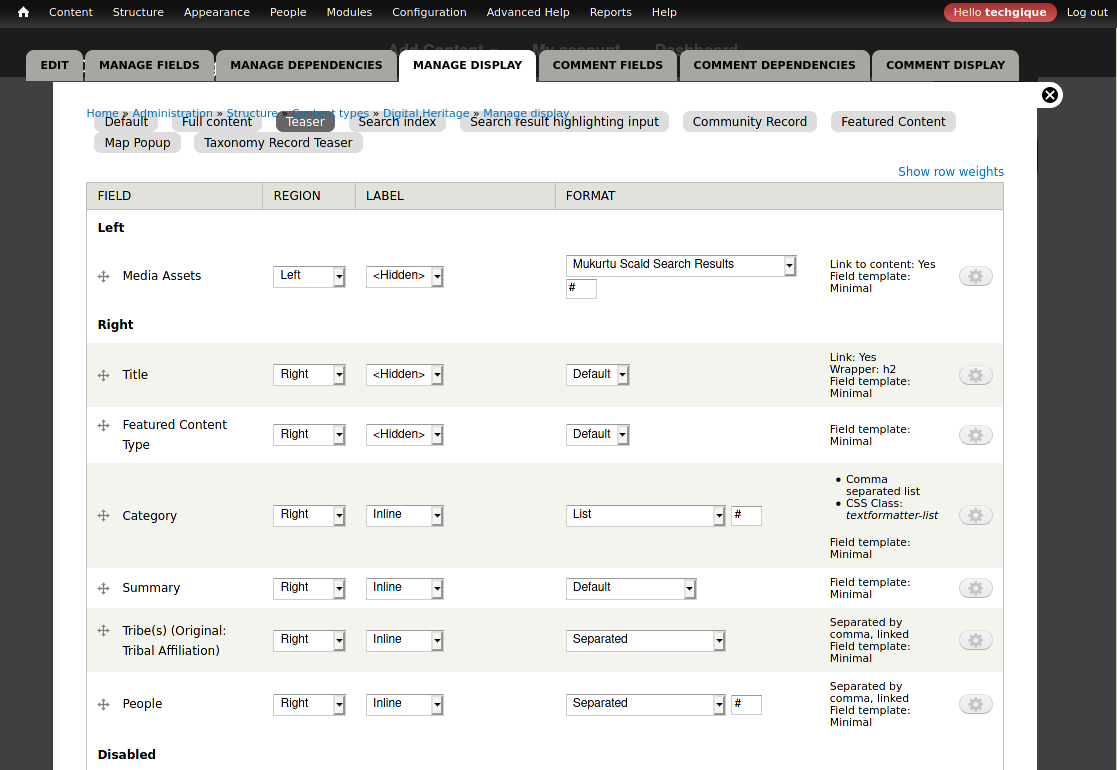
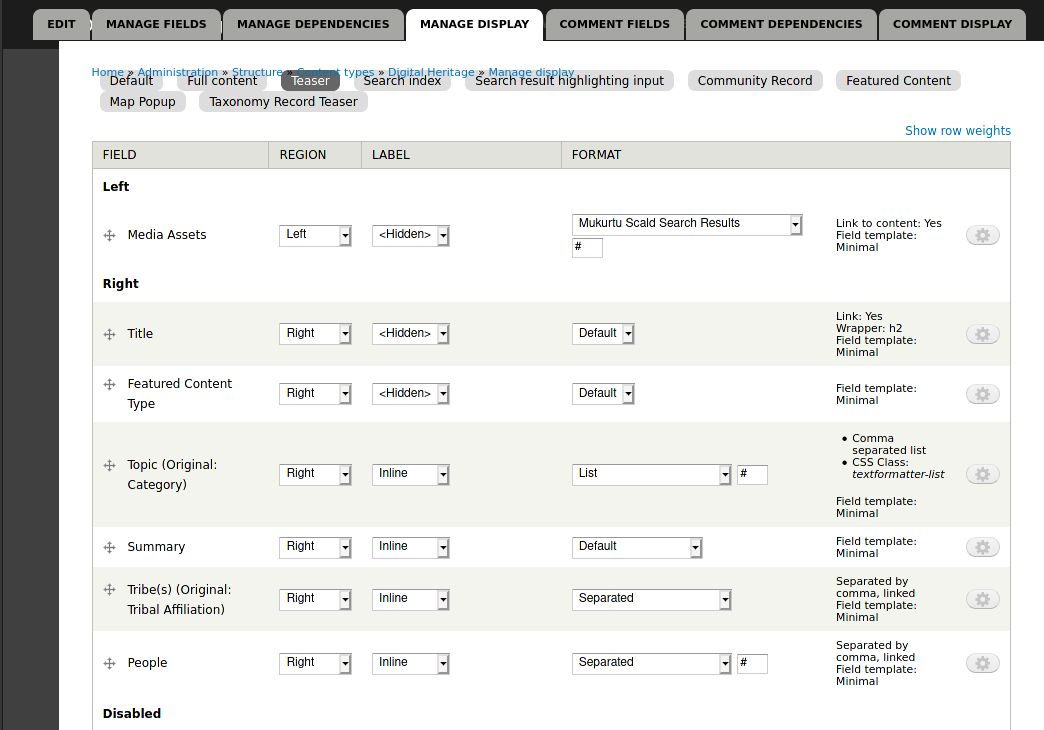
Update preview doc and images
- More explicit with Tribe(s) rename and setting label inline
- Teaser image didn't have Category renamed to Topic

diff --git a/docs/customizations.md b/docs/customizations.md
@@ -150,8 +150,10 @@ with the following field settings:
   - Click gear to right to set label, click Update
 - Summary
 - Tribe(s) (renamed from Tribal Affiliation)
+  - Label: Inline
+  - Format: Separated
+  - Click gear to right, check the box to hide label colon, rename, click Update
 - People
-  - Display: Right
   - Label: Inline
   - Format: Separated
   - Click gear to right, check the box to hide label colon, click Update
